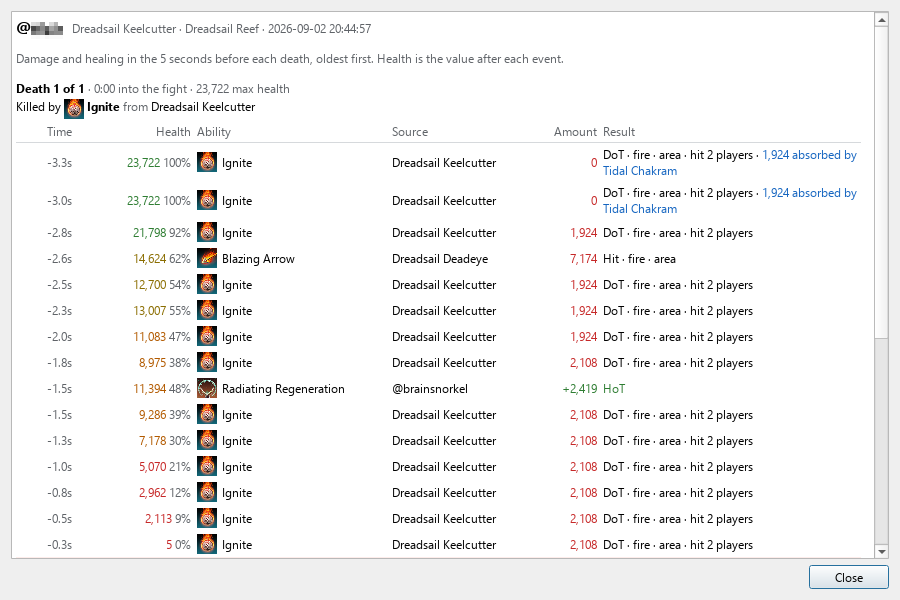
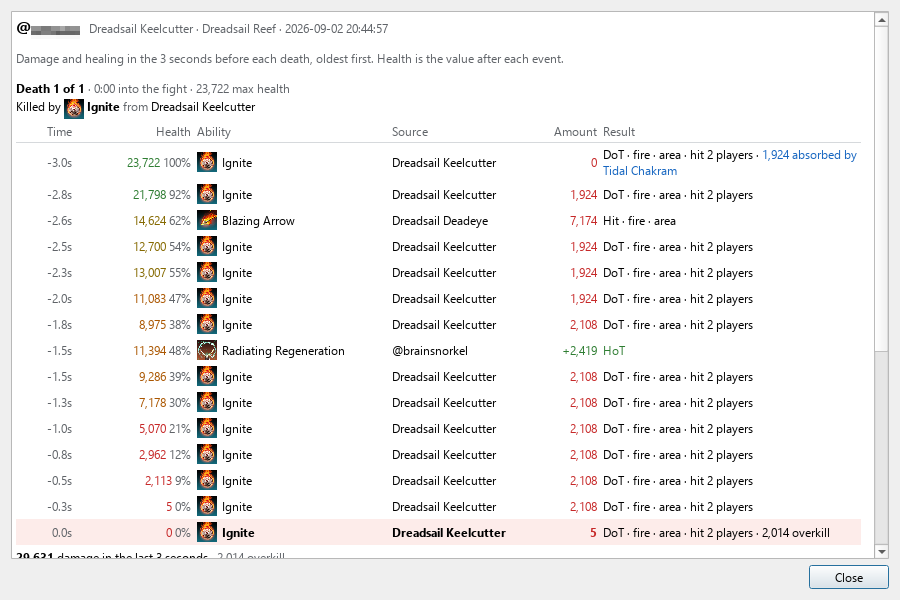
feat: death recap window 1 to 10 seconds, 3 for a new install (#133)
Settings -> Death recaps goes from 5-10 to 1-10 seconds, and a new
install starts at 3 (the survey on #133: 3 s covers the fall from half
health in 71% of 1,550 deaths against 77% at 5, in 5 rows against 7).
A stored window is kept: the config cannot tell a saved default 5 from
a chosen one (decision 1).

"1 second" in the spin box and the window's three sentences; a recap
from before the setting still reads as the fixed five (LEGACY_WINDOW_MS);
the help text, guide, README and home page say the new range; the two
guide pictures retaken.

diff --git a/site/index.html b/site/index.html
@@ -269,7 +269,7 @@ footer nav a { margin-right: 18px; }
       <div class="pic"><img src="img/death-recap.png" alt="A death recap: the hits and heals in the last seconds before a death" loading="lazy"></div>
       <div class="body">
         <h3>Death recaps</h3>
-        <p>A ☠ on a player's row opens the last five seconds before each death (up to ten in Settings): every hit and heal with its source, the health left after it, and whether it was blocked, dodged or shielded.</p>
+        <p>A ☠ on a player's row opens the last three seconds before each death (one to ten in Settings): every hit and heal with its source, the health left after it, and whether it was blocked, dodged or shielded.</p>
       </div>
     </article>
 

diff --git a/tests/unit/test_death_recap_window.py b/tests/unit/test_death_recap_window.py
@@ -1,8 +1,10 @@
 #!/usr/bin/env python3
-"""The death recap window as a setting (issue #95): 5 to 10 seconds, held
-to that range from the config, read by the engine when it is built, and
-written on each recap so the window names the seconds it was built with."""
+"""The death recap window as a setting (issue #95): 1 to 10 seconds, 3 by
+default since #133, held to that range from the config, read by the engine
+when it is built, and written on each recap so the window names the seconds
+it was built with."""
 
+import json
 import tempfile
 import unittest
 from pathlib import Path
@@ -11,6 +13,8 @@ from app_config import DEFAULTS, AppConfig
 from app_startup import build_analyzer
 from death_recap import (
     DEFAULT_WINDOW_S,
+    KILLING_BLOW_GRACE_MS,
+    LEGACY_WINDOW_MS,
     MAX_WINDOW_S,
     MIN_WINDOW_S,
     RECAP_WINDOW_MS,
@@ -41,13 +45,15 @@ def _recorder(window_ms=None):
 class TestTheWindowValue(unittest.TestCase):
 
     def test_the_default_and_the_bounds(self):
-        self.assertEqual((DEFAULT_WINDOW_S, MIN_WINDOW_S, MAX_WINDOW_S), (5, 5, 10))
-        self.assertEqual(RECAP_WINDOW_MS, 5000)
+        self.assertEqual((DEFAULT_WINDOW_S, MIN_WINDOW_S, MAX_WINDOW_S), (3, 1, 10))
+        self.assertEqual(RECAP_WINDOW_MS, 3000)
+        # A recap from before the setting still reads as the fixed five
+        self.assertEqual(LEGACY_WINDOW_MS, 5000)
         self.assertEqual(DEFAULTS["death_recap"]["window_s"], DEFAULT_WINDOW_S)
 
     def test_a_config_value_is_held_to_the_bounds(self):
-        for value, expected in ((None, 5), ("x", 5), (4, 5), (5, 5), ("7", 7), (7.9, 7),
-                                (10, 10), (11, 10), (-3, 5)):
+        for value, expected in ((None, 3), ("x", 3), (0, 1), (1, 1), (4, 4), (5, 5), ("7", 7),
+                                (7.9, 7), (10, 10), (11, 10), (-3, 1)):
             with self.subTest(value=value):
                 self.assertEqual(recap_window_s(value), expected)
 
@@ -60,10 +66,20 @@ class TestTheRecorderKeepsTheWindow(unittest.TestCase):
         recorder.record(18000, _fields("DAMAGE", 3000, 16000), "1")
         return recorder.note_death("1", 20000, _fields("DIED", 0, 0, cast=901))
 
-    def test_the_default_window_is_five_seconds(self):
+    def test_the_default_window_is_three_seconds(self):
         recap = self._death_after(_recorder())
-        self.assertEqual(recap["window_ms"], 5000)
+        self.assertEqual(recap["window_ms"], 3000)
         self.assertEqual([row["offset_ms"] for row in recap["events"]], [-2000])
+
+    def test_one_second_keeps_the_last_second_and_the_killing_blow(self):
+        recorder = _recorder(window_ms=1000)
+        recorder.record(18000, _fields("DAMAGE", 1000, 19000), "1")
+        recorder.record(19500, _fields("DAMAGE", 3000, 16000), "1")
+        recap = recorder.note_death("1", 20000, _fields("DIED", 0, 0, cast=901))
+        # The killing blow, logged after the death within the grace
+        recorder.record(20000 + KILLING_BLOW_GRACE_MS, _fields("DAMAGE", 16000, 0, cast=901), "1")
+        self.assertEqual(recap["window_ms"], 1000)
+        self.assertEqual([row["offset_ms"] for row in recap["events"]], [-500, KILLING_BLOW_GRACE_MS])
 
     def test_a_wider_window_keeps_the_older_hit(self):
         recap = self._death_after(_recorder(window_ms=10000))
@@ -84,11 +100,22 @@ class TestTheSettingReachesTheEngine(unittest.TestCase):
     def test_build_analyzer_reads_the_setting(self):
         with tempfile.TemporaryDirectory() as tmp:
             config = AppConfig(path=Path(tmp) / "config.json")
-            self.assertEqual(build_analyzer(config, []).death_recap_recorder.window_ms, 5000)
+            self.assertEqual(build_analyzer(config, []).death_recap_recorder.window_ms, 3000)
             config.set("death_recap.window_s", 8)
             self.assertEqual(build_analyzer(config, []).death_recap_recorder.window_ms, 8000)
             config.set("death_recap.window_s", 99)   # a hand-edited config file
             self.assertEqual(build_analyzer(config, []).death_recap_recorder.window_ms, 10000)
+
+    def test_a_stored_five_is_kept_and_a_new_install_gets_three(self):
+        # Issue #133, decision 1: the config cannot tell a saved default from
+        # a chosen 5, so a stored value stays; only a config without the key
+        # reads the new default
+        with tempfile.TemporaryDirectory() as tmp:
+            path = Path(tmp) / "config.json"
+            path.write_text(json.dumps({"death_recap": {"window_s": 5}}), encoding="utf-8")
+            self.assertEqual(AppConfig(path=path).get("death_recap.window_s"), 5)
+            path.write_text(json.dumps({"update": {"channel": "beta"}}), encoding="utf-8")
+            self.assertEqual(AppConfig(path=path).get("death_recap.window_s"), 3)
 
 
 if __name__ == '__main__':

diff --git a/src/gui/death_render.py b/src/gui/death_render.py
@@ -30,7 +30,7 @@ closes the window; the first version opened with the fight block and put
 each death's bars above its table, a screen of figures before the hits.
 Damage over time is written DoT and healing over time HoT, the game's words
 and the ones the Result column already used. The window's length is a
-setting (5 to 10 seconds); each recap carries the one it was built with,
+setting (1 to 10 seconds); each recap carries the one it was built with,
 and window_seconds reads it, five for a recap from before the setting.
 """
 
@@ -47,7 +47,7 @@ from damage_kinds import (
     summary_of_taken,
     type_label,
 )
-from death_recap import RECAP_WINDOW_MS
+from death_recap import LEGACY_WINDOW_MS
 from gui.name_mask import NO_MASK
 from gui.text_size import scaled_px
 
@@ -163,7 +163,13 @@ def _clock(ms) -> str:
 def window_seconds(recap: dict) -> int:
     """The seconds the recap's window covered: what the recorder wrote on
     it, or the fixed five of a recap from before the setting (issue #95)."""
-    return int(recap.get("window_ms") or RECAP_WINDOW_MS) // 1000
+    return int(recap.get("window_ms") or LEGACY_WINDOW_MS) // 1000
+
+
+def window_text(recap: dict) -> str:
+    """'3 seconds', or '1 second' for the shortest window (issue #133)."""
+    seconds = window_seconds(recap)
+    return f"{seconds} second" if seconds == 1 else f"{seconds} seconds"
 
 
 def _killed_by(recap: dict, names=NO_MASK) -> str:
@@ -461,7 +467,7 @@ def _death_kinds_html(recap: dict, rows: List[dict], theme: dict, e, base_pt: fl
         return f"<p style='margin:0 0 4px 0;color:{muted}'>{NOT_RECORDED}</p>"
     summary = summary_of_rows(rows, recap.get("overheal"))
     return kinds_block_html(summary, "taken", theme, e, base_pt,
-                            f"in the last {window_seconds(recap)} seconds")
+                            f"in the last {window_text(recap)}")
 
 
 # ------------------------------------------------------------- the table --
@@ -555,7 +561,7 @@ def _death_html(recap: dict, index: int, total: int, theme: dict, icons, e,
     rows = recap.get("events") or []
     if not rows:
         parts.append(f"<p style='margin:0;color:{muted}'>No damage or healing was logged "
-                     f"in the {window_seconds(recap)} seconds before this death.</p>")
+                     f"in the {window_text(recap)} before this death.</p>")
         return "".join(parts)
 
     head = (f"style='color:{muted};border-bottom-style:solid;"
@@ -635,7 +641,7 @@ def render_death_recap_html(entry, unit_id, dark: bool = False, icons=None,
         parts.append(f"<p style='color:{muted}'>No deaths recorded for this player.</p>")
         return "".join(parts)
     parts.append(f"<p style='margin:8px 0 2px 0;color:{muted}'>Damage and healing in the "
-                 f"{window_seconds(deaths[0])} seconds before each death, oldest first. "
+                 f"{window_text(deaths[0])} before each death, oldest first. "
                  f"Health is the value after each event.</p>")
     for index, recap in enumerate(deaths, 1):
         parts.append(_death_html(recap, index, len(deaths), theme, icons, e, names, base_pt))

diff --git a/src/death_recap.py b/src/death_recap.py
@@ -30,13 +30,27 @@ seconds after the death still reads as area. Pure overheals (a heal line
 whose hit value is zero) are kept in the window for the recap's overheal
 sum but never become rows.
 
-The window is a setting (issue #95): 5 seconds by default, up to 10, read
-from the config when the engine is built (app_startup), so a Settings save,
-which rebuilds the engine and replays the session, rebuilds the fights
-already listed with the new window. Each recap records the window it was
-built with ('window_ms'), so a frontend names the right number of seconds
-for a fight recorded under another setting, and a recap from before the key
-existed reads as the old fixed five.
+The window is a setting (issue #95): 1 to 10 seconds, read from the config
+when the engine is built (app_startup), so a Settings save, which rebuilds
+the engine and replays the session, rebuilds the fights already listed with
+the new window. Each recap records the window it was built with
+('window_ms'), so a frontend names the right number of seconds for a fight
+recorded under another setting, and a recap from before the key existed
+reads as the old fixed five (LEGACY_WINDOW_MS).
+
+The default is 3 (issue #133, 5 before). Replaying 24 split logs of
+October 2026 (1,550 player deaths, mostly veteran trials) with a 10 second
+window and measuring each narrower one against it: the drop from half
+health to the death fits in 3 seconds for 71% of deaths (77% at 5, 41% at
+1), in a table of 5 rows at the median (7 at 5). What 3 gives up is the
+biggest hit of the last 10 seconds in 9% of deaths (6% at 5) and the last
+heal in 13% (9% at 5). 1 second is a "what killed me" view: three rows at
+the median, and in 28% of deaths nothing the Killed by line does not
+already say. No window came out empty, since the killing blow is logged up
+to KILLING_BLOW_GRACE_MS after the death. Only new installs get 3: the
+main window saves the whole merged config on close, so everyone on 0.20.0
+or later has a stored 5 that cannot be told from a chosen one, and it is
+kept.
 """
 
 from collections import deque
@@ -45,9 +59,10 @@ from typing import Callable, Dict, List, Optional, Tuple
 from damage_kinds import area_of
 
 # Chronology kept before each death: the default, and what Settings allows
-DEFAULT_WINDOW_S = 5
-MIN_WINDOW_S, MAX_WINDOW_S = 5, 10
+DEFAULT_WINDOW_S = 3
+MIN_WINDOW_S, MAX_WINDOW_S = 1, 10
 RECAP_WINDOW_MS = DEFAULT_WINDOW_S * 1000
+LEGACY_WINDOW_MS = 5000  # the fixed window of a recap from before the setting
 
 # Events on the dead player this soon after the death event belong to it: the
 # killing blow and anything arriving in the same instant. Later hits are on

diff --git a/tests/unit/test_death_recap.py b/tests/unit/test_death_recap.py
@@ -10,12 +10,15 @@ absorbed, and the last player's death written after END_COMBAT.
 import unittest
 
 from death_recap import (  # noqa: E402
-    KILLING_BLOW_GRACE_MS, RECAP_WINDOW_MS, DeathRecapRecorder,
+    KILLING_BLOW_GRACE_MS, DeathRecapRecorder,
 )
 from engine_events import RecordingListener  # noqa: E402
 from esolog_tail import LATE_DEATH_GRACE_MS, ESOLogAnalyzer, FightHistory  # noqa: E402
 
 EPOCH = 1755729685851
+# The window these fixtures were written for (the default of issue #95; it
+# is 3 seconds since #133, which test_death_recap_window covers)
+FIVE_S_MS = 5000
 
 BOSS = "70,287485/287485,0/0,0/0,0/0,0/0,0,0.6,0.4,2.3"
 NO_UNIT = "0,0/0,0/0,0/0,0/0,0/0,0,0.0000,0.0000,0.0000"
@@ -48,6 +51,7 @@ BASE = [
 def _run(lines):
     analyzer = ESOLogAnalyzer()
     analyzer.fight_history = FightHistory()
+    analyzer.death_recap_recorder.window_ms = FIVE_S_MS
     listener = RecordingListener()
     analyzer.add_listener(listener)
     for line in BASE + lines:
@@ -260,7 +264,7 @@ class TestRecorder(unittest.TestCase):
     def setUp(self):
         self.recorder = DeathRecapRecorder(
             lambda unit_id: {'70': 'Boss'}.get(unit_id, ''),
-            lambda ability_id: (f'Ability {ability_id}', ''))
+            lambda ability_id: (f'Ability {ability_id}', ''), window_ms=FIVE_S_MS)
 
     @staticmethod
     def _fields(result, hit, health, overflow=0, cast=900):
@@ -274,7 +278,7 @@ class TestRecorder(unittest.TestCase):
         self.assertEqual([r['offset_ms'] for r in recap['events']],
                          [-4500, -3500, -2500, -1500, -500])
         self.assertEqual(recap['events'][0]['offset_ms'], 7000 - 11500)
-        self.assertGreaterEqual(recap['events'][0]['offset_ms'], -RECAP_WINDOW_MS)
+        self.assertGreaterEqual(recap['events'][0]['offset_ms'], -FIVE_S_MS)
 
     def test_hits_after_the_grace_are_on_the_corpse(self):
         recap = self.recorder.note_death('1', 20000, self._fields('DIED', 0, 0))

diff --git a/src/gui/settings_dialog.py b/src/gui/settings_dialog.py
@@ -64,7 +64,8 @@ CHANNEL_HELP = ("Beta gets every release as it is published. Stable gets a relea
                 "to Stable never takes you back a version: you keep the one you have until a "
                 "Stable release is newer.")
 RECAP_HELP = ("Each death's table and its summary in the death recap window cover this many "
-              "seconds before the death. Five is usually one mechanic; ten shows the lead-up. "
+              "seconds before the death. One shows the killing blow; three covers most deaths "
+              "from half health; ten shows the lead-up. "
               "Saving replays the session, so the fights already listed are rebuilt with the "
               "new window.")
 
@@ -345,9 +346,11 @@ class SettingsDialog(QDialog):
         recap_form = QFormLayout(recap_group)
         self.recap_window = QSpinBox()
         self.recap_window.setRange(MIN_WINDOW_S, MAX_WINDOW_S)
-        self.recap_window.setSuffix(" seconds")
         self.recap_window.setValue(
             recap_window_s(config.get("death_recap.window_s", DEFAULT_WINDOW_S)))
+        # "1 second", not "1 seconds" (issue #133)
+        self._recap_suffix(self.recap_window.value())
+        self.recap_window.valueChanged.connect(self._recap_suffix)
         recap_form.addRow("Window before each death:", self.recap_window)
         recap_help = QLabel(RECAP_HELP)
         recap_help.setWordWrap(True)
@@ -529,6 +532,9 @@ class SettingsDialog(QDialog):
             if doomed and not self.confirm_delete(split_retention.summarize(doomed)):
                 return  # stay in Settings
         super().accept()
+
+    def _recap_suffix(self, value: int) -> None:
+        self.recap_window.setSuffix(" second" if value == 1 else " seconds")
 
     def _snap_text_size(self, value: int) -> None:
         """Keep the slider on a step (a drag can stop between two) and

diff --git a/tests/unit/test_settings_dialog.py b/tests/unit/test_settings_dialog.py
@@ -119,10 +119,13 @@ class TestSettingsDialogLifetime(unittest.TestCase):
     def test_the_death_recap_window_is_bounded_and_saved(self):
         from gui.settings_dialog import SettingsDialog
         dialog = SettingsDialog(self.config)
-        # 5 to 10 seconds in steps of one, 5 by default (issue #95)
-        self.assertEqual((dialog.recap_window.minimum(), dialog.recap_window.maximum()), (5, 10))
+        # 1 to 10 seconds in steps of one, 3 by default (issues #95 and #133)
+        self.assertEqual((dialog.recap_window.minimum(), dialog.recap_window.maximum()), (1, 10))
         self.assertEqual(dialog.recap_window.singleStep(), 1)
-        self.assertEqual(dialog.recap_window.value(), 5)
+        self.assertEqual(dialog.recap_window.value(), 3)
+        self.assertEqual(dialog.recap_window.suffix(), " seconds")
+        dialog.recap_window.setValue(1)
+        self.assertEqual(dialog.recap_window.suffix(), " second")
         dialog.recap_window.setValue(8)
         dialog.apply_to_config()
         self.assertEqual(self.config.get("death_recap.window_s"), 8)

diff --git a/tests/unit/test_death_recap_gui.py b/tests/unit/test_death_recap_gui.py
@@ -423,6 +423,19 @@ class TestKindsInTheWindow(DeathRecapGuiTestCase):
         entry.death_recaps[1]['window_ms'] = 10000   # @passerby, nothing logged
         self.assertIn('in the 10 seconds before this death', self._html(entry, unit_id='77'))
 
+    def test_a_one_second_window_says_second(self):
+        # The shortest window, from Settings at 1 (issue #133)
+        entry = _entry_with_kinds()
+        for recap in entry.death_recaps:
+            recap['window_ms'] = 1000
+        html = self._html(entry)
+        self.assertIn('in the 1 second before each death', html)
+        self.assertIn('damage in the last 1 second', html)
+        self.assertNotIn('1 seconds', html)
+        entry = _entry_with_deaths()
+        entry.death_recaps[1]['window_ms'] = 1000   # @passerby, nothing logged
+        self.assertIn('in the 1 second before this death', self._html(entry, unit_id='77'))
+
     def test_sides_link_to_their_stars_with_hover_text(self):
         from damage_kinds import stars_for
         from gui.death_render import kind_tooltips

diff --git a/src/app_config.py b/src/app_config.py
@@ -78,9 +78,10 @@ DEFAULTS = {
         "accrue_to_owner": False,
     },
     # The death recap window: seconds of damage and healing kept before
-    # each death (death_recap, issue #95), 5 to 10
+    # each death (death_recap, issues #95 and #133), 1 to 10; 3 for a new
+    # install, while a stored 5 from an older version is kept
     "death_recap": {
-        "window_s": 5,
+        "window_s": 3,
     },
     # The app-wide text size, a percentage of the system font (gui.text_size,
     # issue #77): 80 to 200, set in Settings or with Ctrl+=, Ctrl+- and Ctrl+0

diff --git a/docs/user-guide.md b/docs/user-guide.md
@@ -223,7 +223,7 @@ A player who died has a red skull (**☠**) on their row, `☠ ×2` for two deat
 
 ![The death recap window: the last seconds before a death](screencaps/death-recap.png)
 
-The window opens with the deaths. Each names the killing ability and who used it, lists the last seconds of damage and healing, oldest first (5 seconds by default, up to 10 in [Settings](#settings)), and sums those seconds by kind under the table. **Damage taken this fight** closes the window: everything that reached the player's health over the whole fight, summed the same way, then the abilities that did most of it; the link beside its title opens the player's [damage taken window](#a-players-damage-taken), which has every ability, the units that did the damage and the healers.
+The window opens with the deaths. Each names the killing ability and who used it, lists the last seconds of damage and healing, oldest first (3 seconds by default, 1 to 10 in [Settings](#settings)), and sums those seconds by kind under the table. **Damage taken this fight** closes the window: everything that reached the player's health over the whole fight, summed the same way, then the abilities that did most of it; the link beside its title opens the player's [damage taken window](#a-players-damage-taken), which has every ability, the units that did the damage and the healers.
 
 The kinds are the splits the Warfare champion point stars act on, each a two-colour bar with the amounts and percentages on either side:
 
@@ -327,7 +327,7 @@ Open **Settings…** from the toolbar.
 - **Display**: *Text size*, 80% to 200% of the system's text in steps of 10, for the whole app: the fight list, the pages, every window, Settings and the timeline strip, whose rows and labels grow with it. Ability icons grow above 100% and never shrink below it. Ctrl+=, Ctrl+- and Ctrl+0 change it without opening Settings. It applies as soon as Settings is saved; no replay is needed for it. *Colour-blind colours and line styles in the DPS graph* (off by default) swaps the graph's colours for a set measured to stay apart for colour-blind readers, and gives each line a stroke of its own as well; see [DPS over time](#dps-over-time). *Reduce motion* keeps the ring on a taunt skill's icon still instead of pulsing.
 - **Privacy**: hide other players' handles and character names, the same switch as the toolbar's **Hide names** button and Ctrl+H. See [Hiding other players' names](#hiding-other-players-names).
 - **Companions**: also count a companion's damage and healing as its owner's (off by default). Saving replays the session, so the fights already listed change too. See [Companions](#companions).
-- **Death recaps**: how many seconds before each death the recap keeps, 5 to 10 (5 by default). Saving replays the session, so the fights already listed are rebuilt with the new window. See [Death recaps](#death-recaps).
+- **Death recaps**: how many seconds before each death the recap keeps, 1 to 10 (3 for a new install; a setting saved by an older version, usually 5, is kept). Saving replays the session, so the fights already listed are rebuilt with the new window. See [Death recaps](#death-recaps).
 - **Tracked effects**: the rules behind the timeline strip. See [Tracked effects](#tracked-effects).
 - **Penetration and critical damage**: the Champion Point stars the build window's sections assume (Piercing on by default; Fighting Finesse on by default in solo and small-group fights and never in a group of five or more; Backstabber and Force of Nature off, with Force of Nature's figure per status effect), and the penetration cap: by zone, or always 18,200 or 9,100. These apply to the next build window opened; no restart is needed. See [Penetration and critical damage](#penetration-and-critical-damage).
 
@@ -410,7 +410,7 @@ The [design notes](design.md), collected from the code itself, go into each of t
 - **Penetration and critical damage**: a player's own sources are read from the passives, mundus, gear traits and sets on their `PLAYER_INFO` line, valued by the game's own texts; the group's from the debuffs on the target and the buffs on the player, valued as Combat Metrics values them, and weighed second by second by the damage the player dealt, each second capped, so the effective figure is the one Combat Metrics would show. Champion Point stars that only change a stat are not in the log: the ones Settings names are assumed and marked so. The target's resistance is taken as 18,200 wherever the zone's difficulty is normal or veteran, or the target is the Trial dummy, and 9,100 elsewhere. The Trial dummy ("Target Iron Atronach, Trial") puts a trial group's debuffs on itself when it is placed and keeps them, so a log session that began later has no line for them; they are credited for the whole fight by the dummy's name (Major and Minor Breach, Crusher, Roar of Alkosh, Minor Brittle, Elemental Catalyst), as Combat Metrics reads them from the game at the pull.
 - **Build issues**: the `ⓘ` rules read the same `PLAYER_INFO` gear and bars, with the weights, weapon types and weapon skill lines looked up in the bundled tables, and the role the heuristic above gives. Whether a proc set ever fired is read from the `EFFECT_CHANGED` lines the wearer is the source of, over the whole logging session.
 - **Scribed skills**: the log names a scribed skill's focus, signature and affix scripts on its `ABILITY_INFO` line, directly before the `PLAYER_INFO` of the player who uses it. That is how scripts are tied to players: the ability id alone covers several focus scripts of a grimoire, so two players with the same id can run different skills.
-- **Deaths**: player `DIED` events during the fight, and `KILLING_BLOW` events on a player, which is how the log records a player killed by another player. The recap comes from the `COMBAT_EVENT` lines that hit or healed that player in the seconds before (5 by default, up to 10 in Settings).
+- **Deaths**: player `DIED` events during the fight, and `KILLING_BLOW` events on a player, which is how the log records a player killed by another player. The recap comes from the `COMBAT_EVENT` lines that hit or healed that player in the seconds before (3 by default, 1 to 10 in Settings).
 - **Icons and links**: the log names each ability's icon file, and the app ships those icons extracted from the game. ESO-Hub links come from bundled maps of ESO-Hub's sitemaps; nothing is sent to ESO-Hub until you click.
 
 ### Limitations

diff --git a/README.md b/README.md
@@ -14,7 +14,7 @@ The **[home page](https://xop.co/eso-live-encounterlog-sets-abilities/)** is the
 - **Full build per player**: click a name for gear slot by slot (set, type, quality, trait, enchant, slotted poison), both bars, mundus stone, food and Class Mastery passives.
 - **Penetration and critical damage against the caps**: the build window lists where each player's penetration and crit damage come from (passives, mundus and Divines, sets at their piece counts, weapon kinds and traits), which group debuffs were on the boss and who applied them with what, and the buffs on the player, then the totals: at full uptime, as the raid lead's spreadsheet would have it, and effective over the fight's damage, as Combat Metrics would show it. Champion Point stars the log cannot see are assumed rows you choose in Settings. Each player's row in the fight carries the result, `p:18199 cd:121%`, their effective penetration and critical damage.
 - **DPS the way Combat Metrics counts it**: each figure over its dps time (first hit to last); click a player's DPS for their damage by ability and by target, or the group's for a graph of everyone's dps across the fight; a small mark after each figure says it opens something.
-- **Death recaps**: a ☠ on the row of a player who died opens the last seconds before each death (5 by default, up to 10 in Settings): every hit and heal with its source, the health left after it, and whether it was blocked, dodged or absorbed by a shield. Each death, and the whole fight's damage taken, is summed by kind, the splits the Warfare champion point stars act on: direct against DoT, area against single target, Martial against Magical, with the damage types, the healing against the overheal and the overkill; the build window sums a player's damage dealt the same way.
+- **Death recaps**: a ☠ on the row of a player who died opens the last seconds before each death (3 by default, 1 to 10 in Settings): every hit and heal with its source, the health left after it, and whether it was blocked, dodged or absorbed by a shield. Each death, and the whole fight's damage taken, is summed by kind, the splits the Warfare champion point stars act on: direct against DoT, area against single target, Martial against Magical, with the damage types, the healing against the overheal and the overkill; the build window sums a player's damage dealt the same way.
 - **Buff and debuff timeline**: a strip across each fight, buffs above and debuffs below, one row per effect with its uptime. Hover for who cast what on whom; click a row for each caster's and receiver's share of the fight.
 - **Tracked effects you define**: the strip's rows are plain-text rules, `Off-Balance = 45902 62988 on boss`. They start with the group buffs, the taunt on the boss and six boss debuffs, Touch of Z'en's stacks among them, counted as Combat Metrics counts them. A rule shows when its effect was up, or at `0%` in dark red bold in the group sizes you say it is expected in, so a missing buff stands out in a trial without a dungeon run filling with zeros. Edit them, add any effect the log carries, share the rules as text, paste HyperTools trackers, or pick from the Examples list. In a trash pack, boss rules measure the pack.
 - **Taunts**: how long each boss had a taunt on it, and the abilities each player taunted with ringed on their bars.

diff --git a/changelog.d/133-recap-window.md b/changelog.d/133-recap-window.md
@@ -1,0 +1,2 @@
+### Changed
+- **Death recaps keep 3 seconds by default, and Settings goes from 1 to 10** (#133): 3 seconds covers the fall from half health in most deaths with a shorter table, and 1 second shows only the killing blow and the hits just before it. A new install starts at 3; a window already saved in your settings, usually 5, is kept, so change it in Settings → Death recaps if you want the shorter one
